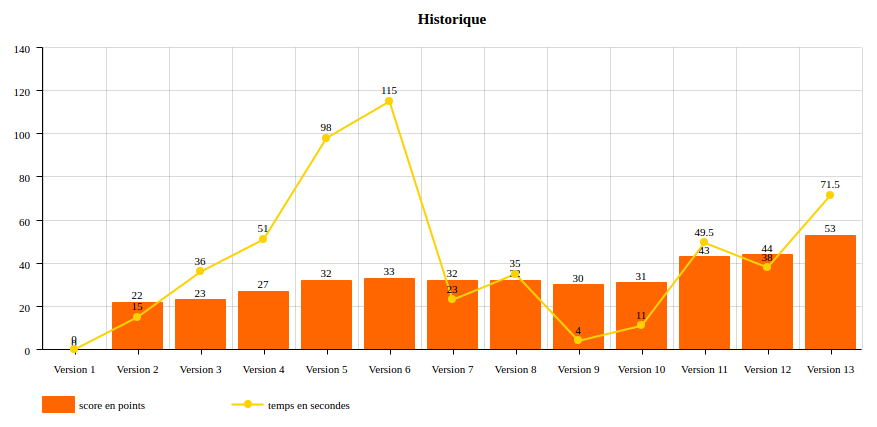
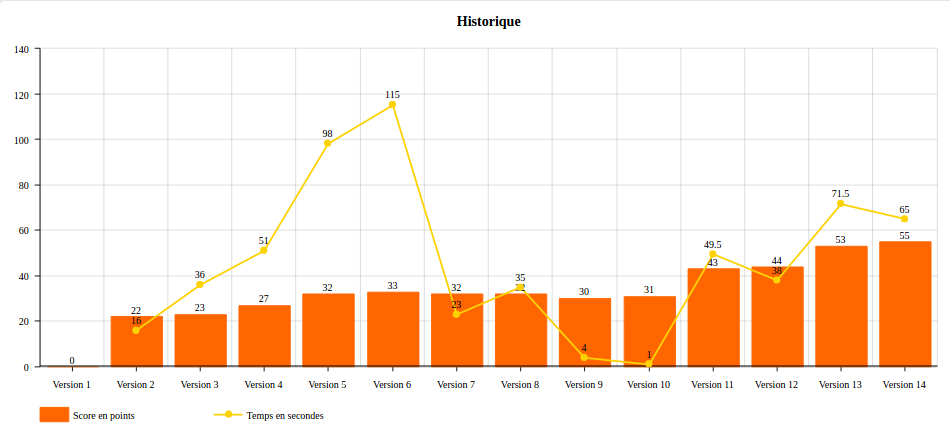
feat(points): adding point for annoymous methods + readme

diff --git a/index.js b/index.js
@@ -5,19 +5,20 @@ const parser = require('./utils/parse');
 const filer = require('./utils/filer');
 
 
-const bucketListPath = process.argv.length > 2 ? process.argv[2] : './nautilus/nautilus-training';
-const pathSingleTrace = process.argv.length > 3 ? process.argv[3] : './nautilus/nautilus-testing';
+//const bucketListPath = process.argv.length > 2 ? process.argv[2] : './nautilus/nautilus-training';
+//const pathSingleTrace = process.argv.length > 3 ? process.argv[3] : './nautilus/nautilus-testing';
 
-// const bucketListPath = process.argv.length > 2 ? process.argv[2] : './dataset2/training';
-// const pathSingleTrace = process.argv.length > 3 ? process.argv[3] : './dataset2/testing';
+const bucketListPath = process.argv.length > 2 ? process.argv[2] : './dataset2/training';
+const pathSingleTrace = process.argv.length > 3 ? process.argv[3] : './dataset2/testing';
 
 // coefficient for the distance to the top frame
 let coeffC = 2;
-let coeffO = 1;
+let coeffO = 2;
 let coeffD = 0.5;
 
-let coeffSame = 2;
-let coeffMethod = 0.7;
+let coeffAllSame = 4;
+let coeffMethodPath = 2;
+let coeffMethod = 1;
 let coeffPath = 0.1;
 
 function getExistingBucketsList() {
@@ -52,7 +53,11 @@ function getScore(stacktraceAloneParsed, stacktracesSorted) {
   return score;
 }
 
-function getScoreByStackTrace(stacktraceAloneParsed, stacktraceSortedParsed) { //[{method, path}]
+function getScoreByStackTrace(stacktraceAloneParsed, stacktraceSortedParsed) {
+
+  if(stacktraceAloneParsed.length === 0 || stacktraceSortedParsed.length === 0){
+    return Number.MIN_SAFE_INTEGER;
+  }
 
   if (parser.getSHA1(stacktraceAloneParsed) === parser.getSHA1(stacktraceSortedParsed)) {
     return Number.MAX_SAFE_INTEGER;
@@ -108,34 +113,53 @@ function getSimilarityMatrix(stacktraceAloneParsed, stacktraceSortedParsed, c, o
 }
 
 function getSimilarity(stacktraceAloneParsed, stacktraceSortedParsed, i, j) {
-  if (stacktraceAloneParsed[i].method === "??" || stacktraceSortedParsed[j].method === "??") {
-    if (stacktraceAloneParsed[i].path === stacktraceSortedParsed[j].path) {
+  /* Anonymous fonctions */
+  if (stacktraceAloneParsed[i].method === "??" || stacktraceSortedParsed[j].method === "??"
+    || stacktraceAloneParsed[i].method === "" || stacktraceSortedParsed[j].method === "" ) {
+    if (stacktraceAloneParsed[i].path !== '' && stacktraceAloneParsed[i].path === stacktraceSortedParsed[j].path) {
       return coeffPath;
-    } else {
+    }
+    else if(stacktraceAloneParsed[i].address != null && stacktraceAloneParsed[i].address === stacktraceSortedParsed[j].address){
+      return coeffPath;
+    }
+    else {
       return Number.MIN_SAFE_INTEGER;
     }
   }
-
-  if (stacktraceAloneParsed[i].method === stacktraceSortedParsed[j].method &&
-    stacktraceAloneParsed[i].path === stacktraceSortedParsed[j].path) {
-    return coeffSame;
-  }
-  else if (stacktraceAloneParsed[i].method === stacktraceSortedParsed[j].method) {
-    return coeffMethod;
-  }
-  else if (stacktraceAloneParsed[i].path === stacktraceSortedParsed[j].path) {
-    return coeffPath;
-  }
+  /* No-anonymous fonctions */
   else {
-    return -100;
+    // All Same (address, method, path)
+    if (stacktraceAloneParsed[i].method !== "" && stacktraceAloneParsed[i].path !== "" && stacktraceAloneParsed[i].address != null &&
+      stacktraceAloneParsed[i].address === stacktraceSortedParsed[j].address &&
+      stacktraceAloneParsed[i].method === stacktraceSortedParsed[j].method &&
+      stacktraceAloneParsed[i].path === stacktraceSortedParsed[j].path) {
+      return coeffAllSame;
+    }
+    // method && path
+    else if (stacktraceAloneParsed[i].method !== "" && stacktraceAloneParsed[i].path !== "" &&
+      stacktraceAloneParsed[i].method === stacktraceSortedParsed[j].method &&
+      stacktraceAloneParsed[i].path === stacktraceSortedParsed[j].path) {
+      return coeffMethodPath;
+    }
+    // method
+    else if (stacktraceAloneParsed[i].method !== "" && stacktraceAloneParsed[i].method === stacktraceSortedParsed[j].method) {
+      return coeffMethod;
+    }
+    // path
+    else if (stacktraceAloneParsed[i].path !== "" && stacktraceAloneParsed[i].path === stacktraceSortedParsed[j].path) {
+      return coeffPath;
+    }
+    else {
+      return Number.MIN_SAFE_INTEGER;
+    }
   }
 }
 
 function getSum(minimumNumberFrame, c) {
   let sumReturned = 0;
 
-  for (let i = 0; i <= minimumNumberFrame; i++) {
-    sumReturned += Math.exp(-(c * i));
+  for (let j = 0; j <= minimumNumberFrame; j++) {
+    sumReturned += Math.exp(((-c) * j));
   }
 
   return sumReturned;
@@ -219,7 +243,8 @@ function main() {
   console.log("coeffO : " + coeffO);
   //console.log("coeffD : " + coeffD);
 
-  console.log("coeffSame : " + coeffSame);
+  console.log("coeffAllSame : " + coeffAllSame);
+  console.log("coeffMethodPath : " + coeffMethodPath);
   console.log("coeffMethod : " + coeffMethod);
   console.log("coeffPath : " + coeffPath);
 

diff --git a/utils/parse.js b/utils/parse.js
@@ -106,9 +106,18 @@ function splitAndSanitizeStack(stacktrace){
     let sanitizedLine = sanitizeLine(line);
     sanitizedLine.totalFrame = lines.length;
 
-    if (count === 0
-      || (count > 0 && sanitizedLine.method !== results[count - 1].method
-        && immunesFunction.indexOf(sanitizedLine.method) === -1)) {
+    //Removes lines with nothing
+    if(sanitizedLine.method === "" && sanitizedLine.path === "" && sanitizedLine.address == null){
+      return;
+    }
+
+    //Remove immune fonction && recursive but not if they are anonymous and contains a path
+    if(immunesFunction.indexOf(sanitizedLine.method) === -1
+      && (count === 0
+        || (count > 0 && sanitizedLine.method !== "??" && sanitizedLine.method !== results[count - 1].method)
+        || (count > 0 && sanitizedLine.method === "??" && sanitizedLine.path !== results[count - 1].path)
+      ))
+    {
       results.push(sanitizedLine);
       count++;
     }

diff --git a/test/parseTest.js b/test/parseTest.js
@@ -10,7 +10,7 @@ const assert = chai.assert,
 const parser = require('../utils/parse.js');
 
 
-var multiline, multiline2, singleline, stacktrace;
+var multiline, multiline2, singleline, stacktrace, stacktrace2;
 
 function readFile(filename) {
   return new Bluebird((resolve, reject) => {
@@ -51,6 +51,14 @@ before(function(done) {
   readFile('test/samples/stacktrace.txt')
   .then((stacktraceContent) => {
     stacktrace = stacktraceContent;
+    done();
+  });
+});
+
+before(function(done) {
+  readFile('test/samples/stacktrace2.txt')
+  .then((stacktraceContent) => {
+    stacktrace2 = stacktraceContent;
     done();
   });
 });
@@ -237,11 +245,6 @@ describe('The parser module', function () {
       assert.equal(result[0].method, 'g_hash_table_foreach_remove_or_steal');
       done();
     });
-
   });
-
-
-
-
 
 });

diff --git a/README.md b/README.md
@@ -11,13 +11,13 @@ Benjamin Coenen - Nicolas Delperdange
 **[Travail technique](#travail-technique)**  
 **[Evaluation](#evaluation)**  
 **[Limitation](#limitation)**  
-**[Conclusion](#conclusion)**
-**[Référence](#référence)**
-**[Annexe](#annexe)**
+**[Conclusion](#conclusion)**  
+**[Référence](#référence)**  
+**[Annexe](#annexe)**  
 
 ## Introduction
 Dans le cadre d'un challenge pour le cours d'OPL de l'Université de Lille 1, nous devons réunir des stacktraces (capturées dans des issues Github) dans un même bucket.  
-Un Bucket est donc un ensemble de stacktraces qui sont liées au même problème.
+Un **Bucket** est donc un ensemble de **stacktraces** qui sont liées au même problème.
 
 ![Stacktrace](https://raw.githubusercontent.com/Oupsla/StacktraceCrawler/master/images/Bucket.png)
 
@@ -27,11 +27,11 @@ Avant toute chose il faut définir quelques points essentiels d'une stacktrace :
 ![Stacktrace](https://raw.githubusercontent.com/Oupsla/StacktraceCrawler/master/images/Stacktrace.png)
 
 - Une stacktrace est composée d'un ensemble de frames
-- Une frame correspond à un appel de méthode ou procédure et est composée de :
-  - Un numéro de frame
-  - Une adresse
-  - Un nom de méthode
-  - Un chemin
+- Une **frame** correspond à un appel de méthode ou procédure et est composée de :
+  - Un **numéro** de frame
+  - Une **adresse**
+  - Un **nom** de méthode
+  - Un **chemin**
   - Et différents paramètres
 
 
@@ -42,7 +42,7 @@ Afin d'un côté s'en inspirer et pourquoi pas les intégrer dans notre projet.
 Après quelques heures de recherches, de discussions et d'essais, nous avons réuni 3 projets : 2 outils de gestion de bugs et un papier de Microsoft.
 
 ### Sentry / Rollbar
-Sentry et Rollbar **[[2-3]](#référence)** sont tous les 2 des gestionnaires de crashs (accessible en mode Saas) et intègrent un système de triage de stacktrace.
+**Sentry et Rollbar** **[[2-3]](#référence)** sont tous les 2 des gestionnaires de crashs (accessibles en mode Saas) et intègrent un système de triage de stacktrace.
 Sentry est open-source et est disponible sur Github et Rollbar possède une bonne documentation en ligne mais n'est malheureusement pas open-source.
 
 Ces 2 programmes étant très proche de la réalité, nous avons donc parcouru leur documentation à la recherche de bonnes pratiques concernant le groupage d'exception.
@@ -71,8 +71,8 @@ Pendant cette étape, ils enlevent aussi les fonctions immunes, c'est-à-dire, d
 #### La distance et l'offset
 Le premier concept est la distance et l'offset d'une frame.  
 
-La distance est la position de la frame courante par rapport à la première frame (top frame).  
-L'offset est la différence de niveau entre 2 frames dans des stacktraces différentes.
+La **distance** est la position de la frame courante par rapport à la première frame (top frame).  
+L'**offset** est la différence de niveau entre 2 frames dans des stacktraces différentes.
 
 ![Stacktrace](https://raw.githubusercontent.com/Oupsla/StacktraceCrawler/master/images/Distance.png)
 
@@ -89,14 +89,15 @@ Ils assemblent ensuite les stacktraces dans des buckets sur un principe de dista
 ## Travail technique
 ### But
 Tout le but de ce travail consiste donc à créer le 'meilleur' algorithme pour rassembler les bonnes stacktraces dans les bons buckets.  
-Evidemment il est impossible d'obtenir un score de 100%, car même l'être humain ne peut être sûr en regardant 2 stacktraces que celle-ci découlent du même problème avec certitude car trop de facteurs non-prévisible entrent en jeu.
+Evidemment il est impossible d'obtenir un score de 100%, car même l'être humain ne peut être sûr en regardant 2 stacktraces que celles-ci découlent du même problème avec certitude car trop de facteurs non-prévisible entrent en jeu.  
+Et il est aussi possible qu'une stacktrace possèdent trop peu d'informations pour pouvoir être triée.
 
 ### Architecture
 Nous avons utilisé une architecture basée sur NodeJs par soucis de facilité d'écriture et d'utilisation.  
 Nous avons aussi fortement découpé notre code en multiples méthodes afin de le rendre très modulaire, le projet étant découpé principalement en 3 fichiers :
-- index.js, qui s'occupe du calcul du score et du regroupement en bucket
-- parse.js, qui s'occupe de tout le traitement des fichiers et chaînes de caractères (lecture, récupération, nettoyage, ...)
-- filer.js, qui gère tout ce qui manipule les fichiers (lecture et écriture de répertoire et fichier)
+- `index.js`, qui s'occupe du calcul du score et du regroupement en bucket
+- `parse.js`, qui s'occupe de tout le traitement des fichiers et chaînes de caractères (lecture, récupération, nettoyage, ...)
+- `filer.js`, qui gère tout ce qui manipule les fichiers (lecture et écriture de répertoire et fichier)
 
 Concernant les librairies utilisées :
 - Bluebird : librairie permettant d'utiliser des 'promises' (système asynchrone) **[[6]](#référence)**
@@ -169,7 +170,7 @@ $ node index.js ./cheminVersMesBuckets ./cheminVersMesStacktracesAPlacer
 
 ## Evaluation
 
-### Etapes
+### Perfomances et Efficacité
 Pour évaluer notre projet d'un point de vue performance, nous possédons 2 métriques :
 - Le temps d'exécution
 - Les points accordés par l'oracle sur 2 datasets
@@ -192,6 +193,7 @@ Voici un graphique réprésentant l'avancement de notre projet par étape
 - Version 11 (Remplacement de par le PDM similarity - 49422.940ms) : 43
 - Version 12 (Coefficient par défaut + suppression des version de lib - 38022.126ms) : 44
 - Version 13 (+ Ajout d'un cout de comparaison a chaque étape - 71630.500ms) : 53
+- Version 14 (+ Ajout de comparaison de méthodes anonymes et adresse - 65304.689ms) : 55
 
 Nous sommes donc assez content de notre avancée par rapport à l'oracle mais aussi au temps d'exécution globale de notre programme, malgré que celui-ci ne soit pas écrit dans le meilleur langage pour faire de l'algorithmique.  
 Sur certains versions (comme par exemple la 7), nous avons perdus des points mais avons quand même préféré les garder car celles-ci étaient logique dans leur intégration mais ne pouvaient se révéler utiles que plus tard par l'ajout d'autres mécanismes.
@@ -205,8 +207,15 @@ Cependant notre couverture sur la partie parseur est très bonne et nous est fou
 
 Ces tests nous ont donc permis d'être assuré que le parseur faisait bien son boulot et nous avons pu nous concentrer sur l'algorithme de calcul de similarité. De plus les tests sont exécutés automatiquement à chaque push sur github grace à Travis CI **[[12]](#référence)**.
 
+En résumé, sur les machines fournis par l'école et avec le premier dataset d'exemple, notre algorithme prend environ +-1min et atteints un score de 55 stacktraces placés sur 108 (sachant que certaines sont impossibles à placer, possédant trop peu d'informations).
+Celui-ci obtient un score de 74 sur 121 pour le 2ieme dataset avec un temps d'1min et 10 secondes en moyenne.
+
+### Facilité d'utilisation
+Comme dit précédemment, nous avons axé notre projet sur un grand découpage de celui-ci, car nous savions que de nombreuses parties de notre algorithme allaient être modifiées très fréquemment. Cela nous a permis de tester les fonctionnalités une à une pour voir si celles-ci étaient bénéfiques tant d'un point de vue de score que de performance.  
+De ce fait, notre code est aussi très facile d'accès et pourrait être adapté pour d'autres types de stacktraces, il ne faudrait alors que modifier les fonctions à l'intérieur du fichier `parse.js`.
+
 ## Limitation
-Concernant les limitations du projet, nous avons mis en oeuvre l'algorithme du papier de Microsoft, il reste donc assez général quelques soient les stacktraces à analyser. La vraie limitation est situé dans le parseur qui lui est assez spécifique aux type de stacktrace que l'on nous a fourni dans les dataset. Si l'on voudrait l'utiliser avec d'autre stacktraces il nous faudrait alors ne modifier que les fonctions à l'intérieur du fichier `parse.js`.
+Concernant les limitations du projet, nous avons mis en oeuvre l'algorithme du papier de Microsoft, il reste donc assez générique quelques soient le type de stacktraces à analyser. La vraie limitation est située dans le parseur qui lui est assez spécifique aux types de stacktrace que l'on nous a fourni dans les datasets.  
 
 Nous possédons aussi une branche contenant l'algorithme permettant de calculer les coéfficiant *c* et *o* de façon optimale. Cependant cet algorithme est très gourmand en temps et nous sommes donc limité dans l'utilisation de celui-ci.
 
@@ -246,10 +255,6 @@ Voici un exemple de modification d'image par AFL :
 Malgré l'intéret pour ce projet et AFL, nous n'avons pas pu en retirer quelque chose d'intéressant pour notre problème actuel car l'algorithme de tri était trop spécifique aux crashs disque.
 
 
-
-
 ## Améliorations
-- Ajouter la stacktrace traité au tableau des buckets
+- Ajouter la stacktrace traitée au tableau des buckets
 - Possibilité d'add/remove des fonctionnalités
-- Brute force avec les buckets qu'on connait deja -> fait sur la branche *determine_coeff*
-- Essayer de trouver de meilleurs valeurs (c, o et de comparaisons)
